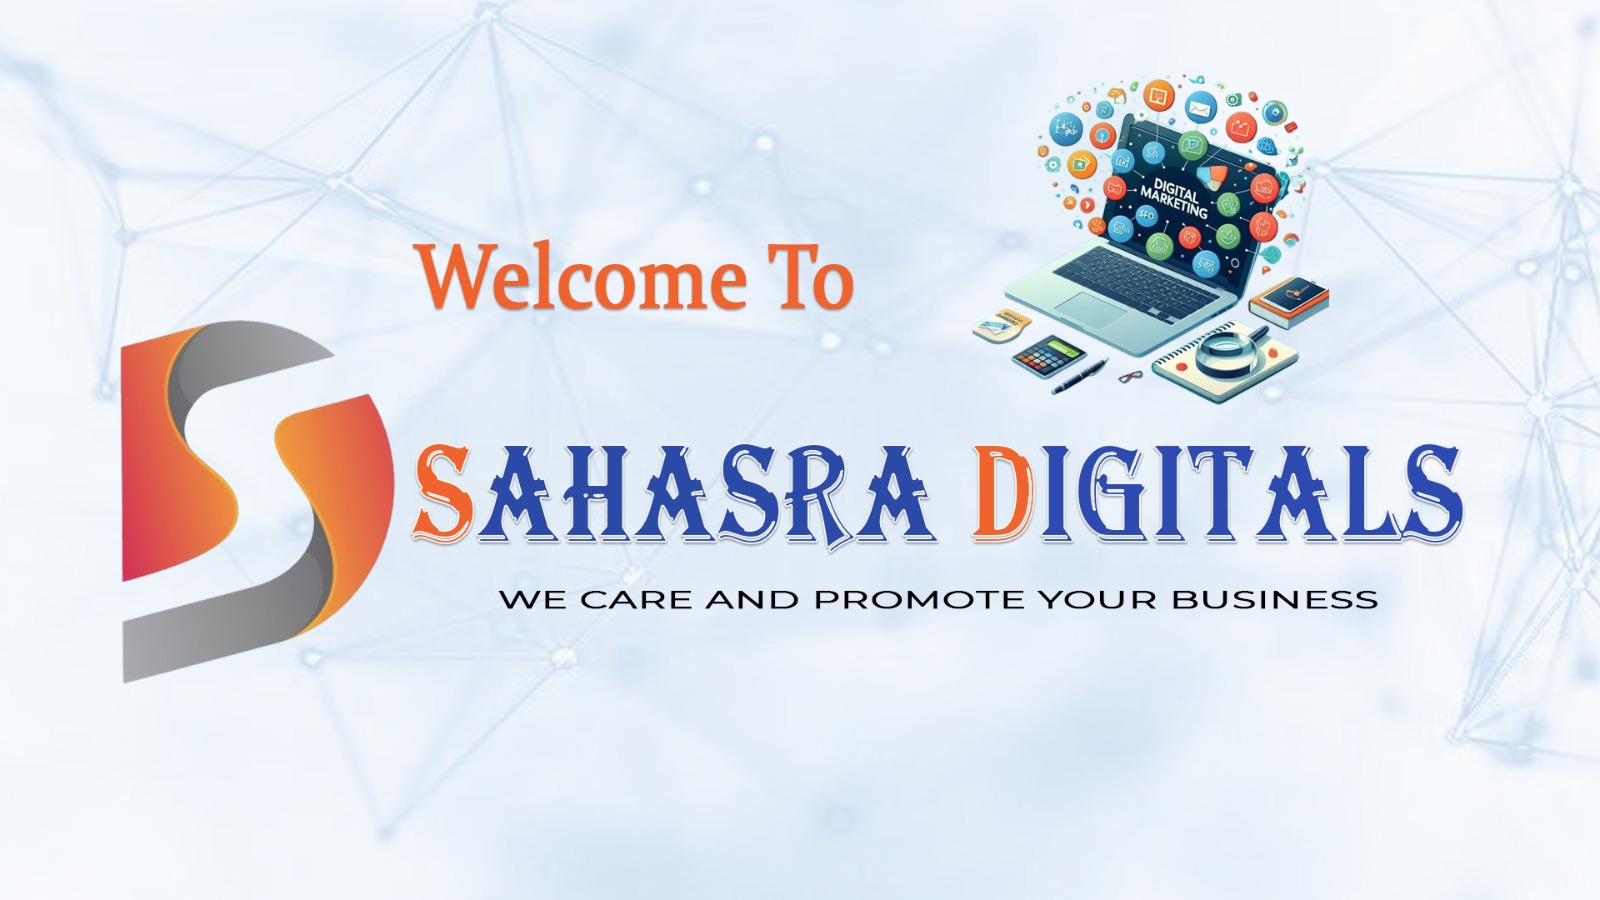
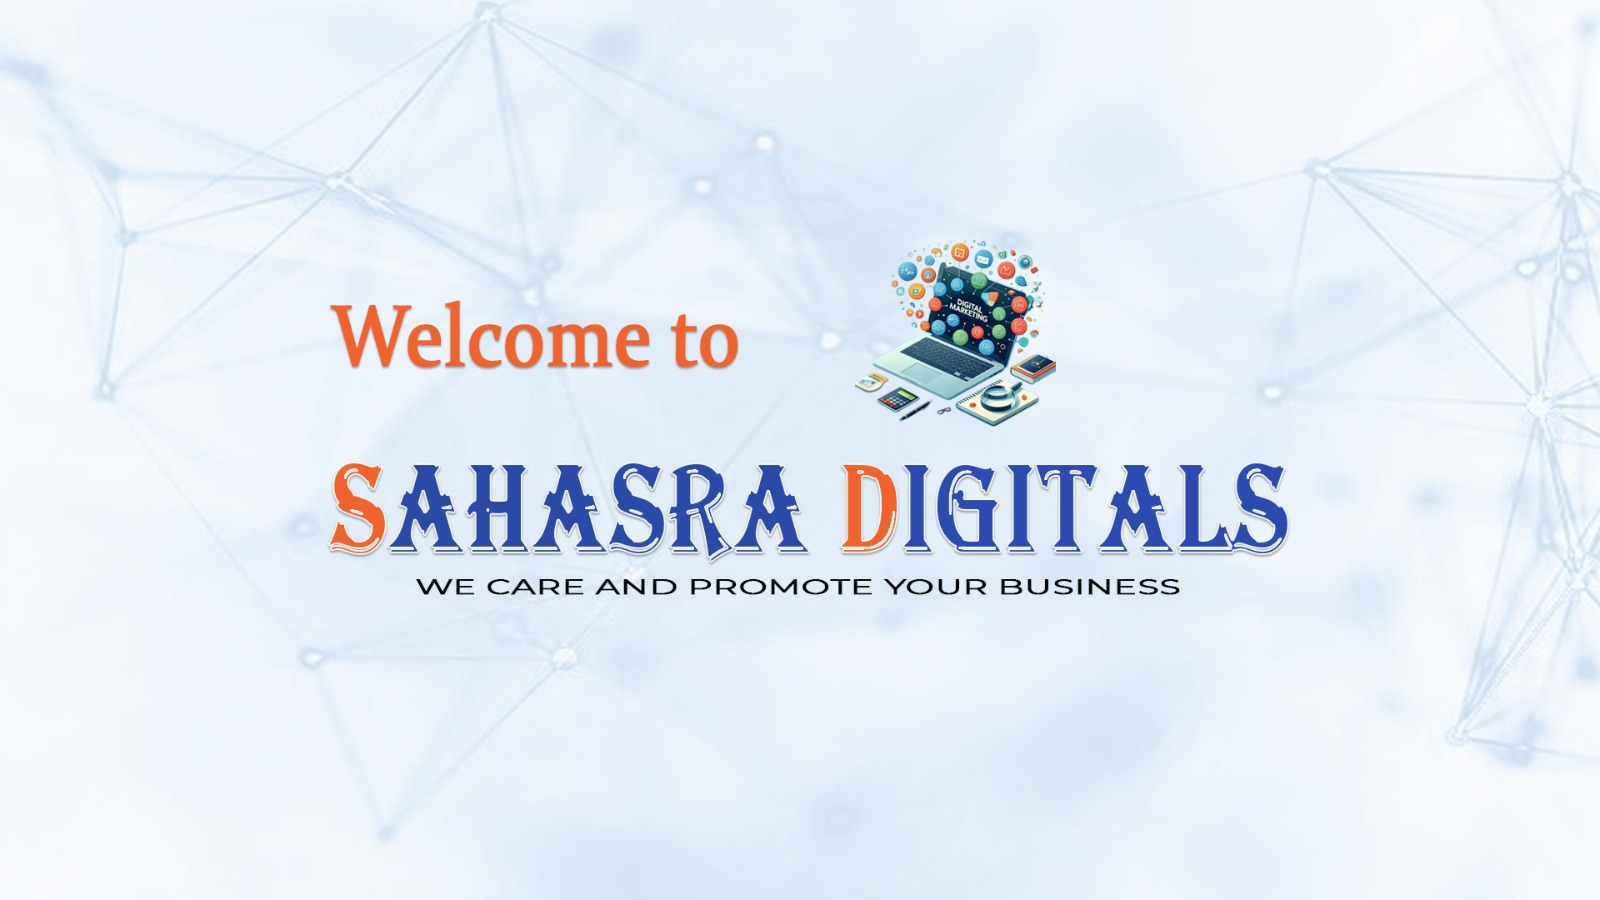
hero section,social media links adding , our services section cards

Changed region(s): [[0.0625, 0.0622, 0.9375, 0.7778]]

diff --git a/src/components/Home.jsx b/src/components/Home.jsx
@@ -9,7 +9,7 @@ const API_URL = 'https://sahasra-backend.onrender.com' || 'http://localhost:5000
 
 
 const Home = () => {
-  const [formData, setFormData] = useState({ name: '', email: '', phone: '', company: '', message: '', subject: '' });
+  const [formData, setFormData] = useState({ name: '', email: '', phone: '', company: '', message: '' });
 
   const handleChange = (e) => {
     setFormData({ ...formData, [e.target.name]: e.target.value });
@@ -45,7 +45,7 @@ const Home = () => {
       await axios.post(`${API_URL}/api/contact`, formData);
       toast.dismiss();
       toast.success('Message sent successfully!');
-      setFormData({ name: '', email: '', phone: '', company: '', message: '', subject: '' });
+      setFormData({ name: '', email: '', phone: '', company: '', message: '' });
     } catch (error) {
       toast.dismiss();
       toast.error('Failed to send message. Please try again.');
@@ -57,14 +57,14 @@ const Home = () => {
       <Toaster position="top-center" reverseOrder={false} />
 
       {/* 🖼 Hero Slider Section */}
-      <section className="relative  pt-20 md:pt-20">
+      <section className="relative h-80 md:h-150  pt-20 md:pt-20 mb-10">
         <HeroSlider />
         {/* Overlay */}
         <div className="absolute inset-0 bg-black/50 z-0"></div>
       </section>
 
       {/* Company Promo Video Section */}
-      <section className="w-full flex flex-col items-center justify-center bg-white py-12">
+      {/* <section className="w-full flex flex-col items-center justify-center bg-white py-12">
         <h2 className="text-3xl md:text-4xl font-bold text-orange-500 mb-6 text-center">See What We Do</h2>
         <div className="w-full overflow-hidden ">
           <video
@@ -79,7 +79,7 @@ const Home = () => {
             Your browser does not support the video tag.
           </video>
         </div>
-      </section>
+      </section> */}
 
       {/* Main Content Section (Headline, Tagline, CTA, Contact) */}
       <section className="relative px-6 md:px-30 py-16 flex flex-col md:flex-row justify-between items-center bg-white text-black">
@@ -132,13 +132,6 @@ const Home = () => {
               placeholder="What does your company do?"
               className="w-full p-3 rounded bg-white text-black placeholder-gray-400 border border-gray-300 focus:outline-none focus:ring-2 focus:ring-orange-400"
               required
-            />
-            <input 
-              type="text"
-              name="subject"
-              value={formData.subject}
-              onChange={handleChange}
-              placeholder="Subject"
             />
             <textarea
               name="message"
@@ -248,38 +241,94 @@ const Home = () => {
 
       {/* Services Section (short list) */}
       <section className="bg-slate-100 w-full py-16">
-        <div className="max-w-5xl mx-auto px-4 md:px-10">
+        <div className="max-w-8xl mx-auto px-4 md:px-10">
           <h2 className="text-3xl md:text-4xl font-bold text-orange-500 mb-10 text-center">Our Services</h2>
-          <div className="grid grid-cols-1 sm:grid-cols-2 md:grid-cols-3 gap-8">
-            <div className="bg-white p-6 rounded-xl shadow hover:shadow-orange-500 transition-all duration-300 hover:scale-105 flex flex-col items-center md:items-start text-center md:text-left">
-              <span className="mb-3 text-orange-500">
-                <svg className="w-10 h-10" fill="none" stroke="currentColor" strokeWidth="2" viewBox="0 0 24 24"><rect x="3" y="3" width="18" height="18" rx="2" /><path strokeLinecap="round" strokeLinejoin="round" d="M8 6h8M8 10h8M8 14h8" /></svg>
-              </span>
-              <h3 className="text-xl font-semibold mb-2 text-orange-400">Brochure, Poster & Banner Design</h3>
-              <p className="text-gray-700 leading-relaxed">Eye-catching print and digital designs to promote your business and events.</p>
+          <div className="grid grid-cols-1 sm:grid-cols-2 md:grid-cols-4 gap-8">
+            <div className="bg-white rounded-2xl overflow-hidden shadow-lg hover:shadow-orange-300 transition-shadow duration-300 flex flex-col items-center text-center group border border-orange-100">
+              <div className="w-full mb-4 shadow-lg transition">
+                <img
+                  src="/images/service1.png"
+                  alt="Brochure, Poster & Banner Design"
+                  className="object-fill h-50 w-full"
+                />
+              </div>
+              <div className='flex flex-col justify-between h-full p-4'>
+              <h3 className="text-xl font-bold mb-2 text-orange-500">Brochure, Poster & Banner Design</h3>
+              <p className="text-gray-700 leading-relaxed mb-4">Eye-catching print and digital designs to promote your business and events.</p>
+              <a
+                href="https://wa.me/9581823990"
+                target="_blank"
+                rel="noopener noreferrer"
+                className="mt-auto px-4 py-2 bg-orange-500 text-white rounded-full font-semibold shadow hover:bg-orange-600 transition text-center"
+              >
+                Learn More
+              </a>
+              </div>
             </div>
-            <div className="bg-white p-6 rounded-xl shadow hover:shadow-orange-500 transition-all duration-300 hover:scale-105 flex flex-col items-center md:items-start text-center md:text-left">
-              <span className="mb-3 text-orange-500">
-                <svg className="w-10 h-10" fill="none" stroke="currentColor" strokeWidth="2" viewBox="0 0 24 24"><rect x="2" y="7" width="20" height="14" rx="2" /><path strokeLinecap="round" strokeLinejoin="round" d="M16 3v4M8 3v4" /></svg>
-              </span>
-              <h3 className="text-xl font-semibold mb-2 text-orange-400">Video Editing & Promotional Videos</h3>
-              <p className="text-gray-700 leading-relaxed">Captivate your audience with professional video editing and compelling promotional videos.</p>
+            <div className="bg-white rounded-2xl overflow-hidden shadow-lg hover:shadow-orange-300 transition-shadow duration-300 flex flex-col items-center text-center group border border-orange-100">
+              <div className="w-full mb-4 shadow-lg transition">
+                <img
+                  src="/images/service2.png"
+                  alt="Video Editing & Promotional Videos"
+                  className="object-fill h-50 w-full"
+                />
+              </div>
+              <div className='flex flex-col justify-between h-full p-4'>
+              <h3 className="text-xl font-bold mb-2 text-orange-500">Video Editing & Promotional Videos</h3>
+              <p className="text-gray-700 leading-relaxed mb-4">Captivate your audience with professional video editing and compelling promotional videos.</p>
+              <a
+                href="https://wa.me/9581823990"
+                target="_blank"
+                rel="noopener noreferrer"
+                className="mt-auto px-4 py-2 bg-orange-500 text-white rounded-full font-semibold shadow hover:bg-orange-600 transition text-center"
+              >
+                Learn More
+              </a>
+              </div>
             </div>
-            <div className="bg-white p-6 rounded-xl shadow hover:shadow-orange-500 transition-all duration-300 hover:scale-105 flex flex-col items-center md:items-start text-center md:text-left">
-              <span className="mb-3 text-orange-500">
-                <svg className="w-10 h-10" fill="none" stroke="currentColor" strokeWidth="2" viewBox="0 0 24 24"><circle cx="12" cy="12" r="10" /><path strokeLinecap="round" strokeLinejoin="round" d="M12 8v4l3 3" /></svg>
-              </span>
-              <h3 className="text-xl font-semibold mb-2 text-orange-400">Logo & Business Card Designing</h3>
-              <p className="text-gray-700 leading-relaxed">Memorable logos and business cards that make a lasting impression.</p>
+            <div className="bg-white rounded-2xl overflow-hidden shadow-lg hover:shadow-orange-300 transition-shadow duration-300 flex flex-col items-center text-center group border border-orange-100">
+              <div className="w-full mb-4 shadow-lg transition">
+                <img
+                  src="/images/service3.jpg"
+                  alt="Logo & Business Card Designing"
+                  className="object-fill h-50 w-full"
+                />
+              </div>
+              <div className='flex flex-col justify-between h-full p-4'>
+              <h3 className="text-xl font-bold mb-2 text-orange-500">Logo & Business Card Designing</h3>
+              <p className="text-gray-700 leading-relaxed mb-4">Memorable logos and business cards that make a lasting impression.</p>
+              <a
+                href="https://wa.me/9581823990"
+                target="_blank"
+                rel="noopener noreferrer"
+                className="mt-auto px-4 py-2 bg-orange-500 text-white rounded-full font-semibold shadow hover:bg-orange-600 transition text-center"
+              >
+                Learn More
+              </a>
+              </div>
             </div>
-            <div className="bg-white p-6 rounded-xl shadow hover:shadow-orange-500 transition-all duration-300 hover:scale-105 flex flex-col items-center md:items-start text-center md:text-left">
-              <span className="mb-3 text-orange-500">
-                <svg className="w-10 h-10" fill="none" stroke="currentColor" strokeWidth="2" viewBox="0 0 24 24"><path strokeLinecap="round" strokeLinejoin="round" d="M17 8h2a2 2 0 012 2v8a2 2 0 01-2 2H5a2 2 0 01-2-2v-8a2 2 0 012-2h2" /><path strokeLinecap="round" strokeLinejoin="round" d="M12 12v4m0 0l-2-2m2 2l2-2" /></svg>
-              </span>
-              <h3 className="text-xl font-semibold mb-2 text-orange-400">Social Media Handling & Marketing</h3>
-              <p className="text-gray-700 leading-relaxed">Grow your brand and engage your audience with strategic social media management.</p>
+            <div className="bg-white rounded-2xl overflow-hidden shadow-lg hover:shadow-orange-300 transition-shadow duration-300 flex flex-col items-center text-center group border border-orange-100">
+              <div className="w-full mb-4 shadow-lg transition">
+                <img
+                  src="/images/service4.jpg"
+                  alt="Social Media Handling & Marketing"
+                  className="object-fill h-50 w-full"
+                />
+              </div>
+              <div className='flex flex-col justify-between h-full p-4'>
+              <h3 className="text-xl font-bold mb-2 text-orange-500">Social Media Handling & Marketing</h3>
+              <p className="text-gray-700 leading-relaxed mb-4">Grow your brand and engage your audience with strategic social media management.</p>
+              <a
+                href="https://wa.me/9581823990"
+                target="_blank"
+                rel="noopener noreferrer"
+                className="mt-auto px-4 py-2 bg-orange-500 text-white rounded-full font-semibold shadow hover:bg-orange-600 transition text-center"
+              >
+                Learn More
+              </a>
+              </div>
             </div>
-            <div className="bg-white p-6 rounded-xl shadow hover:shadow-orange-500 transition-all duration-300 hover:scale-105 flex flex-col items-center md:items-start text-center md:text-left">
+            {/* <div className="bg-white p-6 rounded-xl shadow hover:shadow-orange-500 transition-all duration-300 hover:scale-105 flex flex-col items-center md:items-start text-center md:text-left">
               <span className="mb-3 text-orange-500">
                 <svg className="w-10 h-10" fill="none" stroke="currentColor" strokeWidth="2" viewBox="0 0 24 24"><circle cx="12" cy="12" r="10" /><path strokeLinecap="round" strokeLinejoin="round" d="M8 12l2 2 4-4" /></svg>
               </span>
@@ -292,7 +341,7 @@ const Home = () => {
               </span>
               <h3 className="text-xl font-semibold mb-2 text-orange-400">Digital Printing Solutions</h3>
               <p className="text-gray-700 leading-relaxed">High-quality digital printing for all your marketing and branding materials.</p>
-            </div>
+            </div> */}
           </div>
         </div>
       </section>

diff --git a/src/App.jsx b/src/App.jsx
@@ -77,7 +77,7 @@ function App() {
 
       {/* Floating WhatsApp Button */}
       <a
-        href="https://wa.me/917893940717"
+        href="https://wa.me/9581823990"
         target="_blank"
         rel="noopener noreferrer"
         className="fixed bottom-6 right-6 z-50 bg-green-500 hover:bg-green-600 rounded-full shadow-lg w-16 h-16 flex items-center justify-center transition-all duration-200"
@@ -111,24 +111,24 @@ function App() {
                 Your trusted partner in building a strong online presence. We specialize in result-driven digital marketing solutions designed to grow your brand, attract the right audience, and drive conversions.
               </p>
               <div className="flex space-x-4">
-                <a href="#" className="w-10 h-10 bg-orange-500 rounded-full flex items-center justify-center hover:bg-orange-600 transition">
-                  <svg className="w-5 h-5 text-white" fill="currentColor" viewBox="0 0 24 24">
-                    <path d="M24 4.557c-.883.392-1.832.656-2.828.775 1.017-.609 1.798-1.574 2.165-2.724-.951.564-2.005.974-3.127 1.195-.897-.957-2.178-1.555-3.594-1.555-3.179 0-5.515 2.966-4.797 6.045-4.091-.205-7.719-2.165-10.148-5.144-1.29 2.213-.669 5.108 1.523 6.574-.806-.026-1.566-.247-2.229-.616-.054 2.281 1.581 4.415 3.949 4.89-.693.188-1.452.232-2.224.084.626 1.956 2.444 3.379 4.6 3.419-2.07 1.623-4.678 2.348-7.29 2.04 2.179 1.397 4.768 2.212 7.548 2.212 9.142 0 14.307-7.721 13.995-14.646.962-.695 1.797-1.562 2.457-2.549z"/>
+                <a href="https://www.facebook.com/profile.php?id=61563348611003" target="_blank" rel="noopener noreferrer" className="w-10 h-10 bg-white rounded-full flex items-center justify-center hover:bg-orange-600 transition">
+                  <svg className="w-5 h-5 text-white" fill="blue" viewBox="0 0 24 24">
+                    <path d="M22.675 0h-21.35C.595 0 0 .592 0 1.326v21.348C0 23.408.595 24 1.325 24h11.495v-9.294H9.692v-3.622h3.128V8.413c0-3.1 1.893-4.788 4.659-4.788 1.325 0 2.463.099 2.797.143v3.24l-1.918.001c-1.504 0-1.797.715-1.797 1.763v2.313h3.587l-.467 3.622h-3.12V24h6.116C23.406 24 24 23.408 24 22.674V1.326C24 .592 23.406 0 22.675 0"/>
                   </svg>
                 </a>
-                <a href="#" className="w-10 h-10 bg-orange-500 rounded-full flex items-center justify-center hover:bg-orange-600 transition">
+                {/* <a href="https://www.instagram.com/sahasra_digitals/?next=%2F" target="_blank" rel="noopener noreferrer" className="w-10 h-10 bg-orange-500 rounded-full flex items-center justify-center hover:bg-orange-600 transition">
                   <svg className="w-5 h-5 text-white" fill="currentColor" viewBox="0 0 24 24">
                     <path d="M22.46 6c-.77.35-1.6.58-2.46.69.88-.53 1.56-1.37 1.88-2.38-.83.5-1.75.85-2.72 1.05C18.37 4.5 17.26 4 16 4c-2.35 0-4.27 1.92-4.27 4.29 0 .34.04.67.11.98C8.28 9.09 5.11 7.38 3 4.79c-.37.63-.58 1.37-.58 2.15 0 1.49.75 2.81 1.91 3.56-.71 0-1.37-.2-1.95-.5v.03c0 2.08 1.48 3.82 3.44 4.21a4.22 4.22 0 0 1-1.93.07 4.28 4.28 0 0 0 4 2.98 8.521 8.521 0 0 1-5.33 1.84c-.34 0-.68-.02-1.02-.06C3.44 20.29 5.7 21 8.12 21 16 21 20.33 14.46 20.33 8.79c0-.19 0-.37-.01-.56.84-.6 1.56-1.36 2.14-2.23z"/>
                   </svg>
                 </a>
-                <a href="#" className="w-10 h-10 bg-orange-500 rounded-full flex items-center justify-center hover:bg-orange-600 transition">
+                <a href="https://www.google.com/search?q=SAHASRA+DIGITALS+GUNTUR&oq=sahas&gs_lcrp=EgZjaHJvbWUqCAgBEEUYJxg7MggIABBFGCcYOzIICAEQRRgnGDsyBggCEEUYQDIGCAMQRRg5MgoIBBAAGLEDGIAEMgoIBRAuGLEDGIAEMgcIBhAuGIAEMgcIBxAuGIAE0gEJMzExOGowajE1qAIIsAIB8QWBvA1pz09V7Q&sourceid=chrome&ie=UTF-8" target="_blank" rel="noopener noreferrer" className="w-10 h-10 bg-orange-500 rounded-full flex items-center justify-center hover:bg-orange-600 transition">
                   <svg className="w-5 h-5 text-white" fill="currentColor" viewBox="0 0 24 24">
                     <path d="M20.447 20.452h-3.554v-5.569c0-1.328-.027-3.037-1.852-3.037-1.853 0-2.136 1.445-2.136 2.939v5.667H9.351V9h3.414v1.561h.046c.477-.9 1.637-1.85 3.37-1.85 3.601 0 4.267 2.37 4.267 5.455v6.286zM5.337 7.433c-1.144 0-2.063-.926-2.063-2.065 0-1.138.92-2.063 2.063-2.063 1.14 0 2.064.925 2.064 2.063 0 1.139-.925 2.065-2.064 2.065zm1.782 13.019H3.555V9h3.564v11.452zM22.225 0H1.771C.792 0 0 .774 0 1.729v20.542C0 23.227.792 24 1.771 24h20.451C23.2 24 24 23.227 24 22.271V1.729C24 .774 23.2 0 22.222 0h.003z"/>
                   </svg>
-                </a>
-                <a href="#" className="w-10 h-10 bg-orange-500 rounded-full flex items-center justify-center hover:bg-orange-600 transition">
-                  <svg className="w-5 h-5 text-white" fill="currentColor" viewBox="0 0 24 24">
-                    <path d="M12.017 0C5.396 0 .029 5.367.029 11.987c0 5.079 3.158 9.417 7.618 11.174-.105-.949-.199-2.403.041-3.439.219-.937 1.406-5.957 1.406-5.957s-.359-.72-.359-1.781c0-1.663.967-2.911 2.168-2.911 1.024 0 1.518.769 1.518 1.688 0 1.029-.653 2.567-.992 3.992-.285 1.193.6 2.165 1.775 2.165 2.128 0 3.768-2.245 3.768-5.487 0-2.861-2.063-4.869-5.008-4.869-3.41 0-5.409 2.562-5.409 5.199 0 1.033.394 2.143.889 2.741.099.12.112.225.085.345-.09.375-.293 1.199-.334 1.363-.053.225-.172.271-.402.165-1.495-.69-2.433-2.878-2.433-4.646 0-3.776 2.748-7.252 7.92-7.252 4.158 0 7.392 2.967 7.392 6.923 0 4.135-2.607 7.462-6.233 7.462-1.214 0-2.357-.629-2.746-1.378l-.748 2.853c-.271 1.043-1.002 2.35-1.492 3.146C9.57 23.812 10.763 24.009 12.017 24.009c6.624 0 11.99-5.367 11.99-11.988C24.007 5.367 18.641.001 12.017.001z"/>
+                </a> */}
+                <a href="https://www.instagram.com/sahasra_digitals/?next=%2F" target="_blank" rel="noopener noreferrer" className="w-10 h-10 bg-white rounded-full flex items-center justify-center hover:bg-orange-600 transition">
+                  <svg className="w-5 h-5 text-white" fill="red" viewBox="0 0 24 24">
+                    <path d="M7.75 2h8.5A5.75 5.75 0 0 1 22 7.75v8.5A5.75 5.75 0 0 1 16.25 22h-8.5A5.75 5.75 0 0 1 2 16.25v-8.5A5.75 5.75 0 0 1 7.75 2zm0 1.5A4.25 4.25 0 0 0 3.5 7.75v8.5A4.25 4.25 0 0 0 7.75 20.5h8.5A4.25 4.25 0 0 0 20.5 16.25v-8.5A4.25 4.25 0 0 0 16.25 3.5zm4.25 2.25a5.25 5.25 0 1 1-5.25 5.25a5.25 5.25 0 0 1 5.25-5.25zm0 1.5a3.75 3.75 0 1 0 3.75 3.75a3.75 3.75 0 0 0-3.75-3.75zm5.25 1.25a1 1 0 1 1-2 0a1 1 0 0 1 2 0z"/>
                   </svg>
                 </a>
               </div>

diff --git a/src/components/HeroSlider.jsx b/src/components/HeroSlider.jsx
@@ -16,14 +16,14 @@ const HeroSlider = () => {
       loop={true}
       autoplay={{ delay: 4000 }}
       pagination={{ clickable: true }}
-      className="absolute inset-0 z-0  w-full"
+      className="absolute inset-0 z-0 h-80 md:h-150  w-full"
     >
       {slides.map((src, index) => (
         <SwiperSlide key={index}>
           <img
             src={src}
             alt={`Banner ${index + 1}`}
-            className="w-full object-fill"
+            className="w-full h-80 md:h-150 object-fill"
           />
         </SwiperSlide>
       ))}
